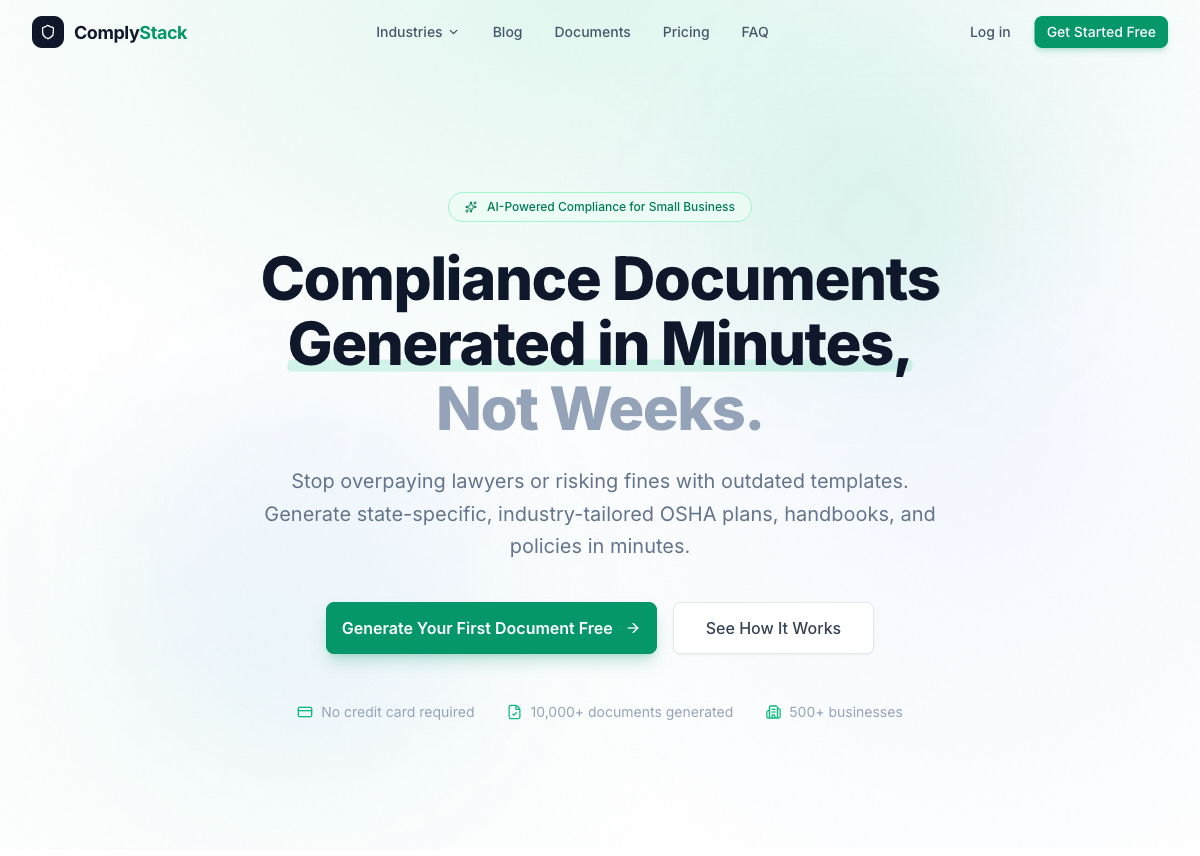
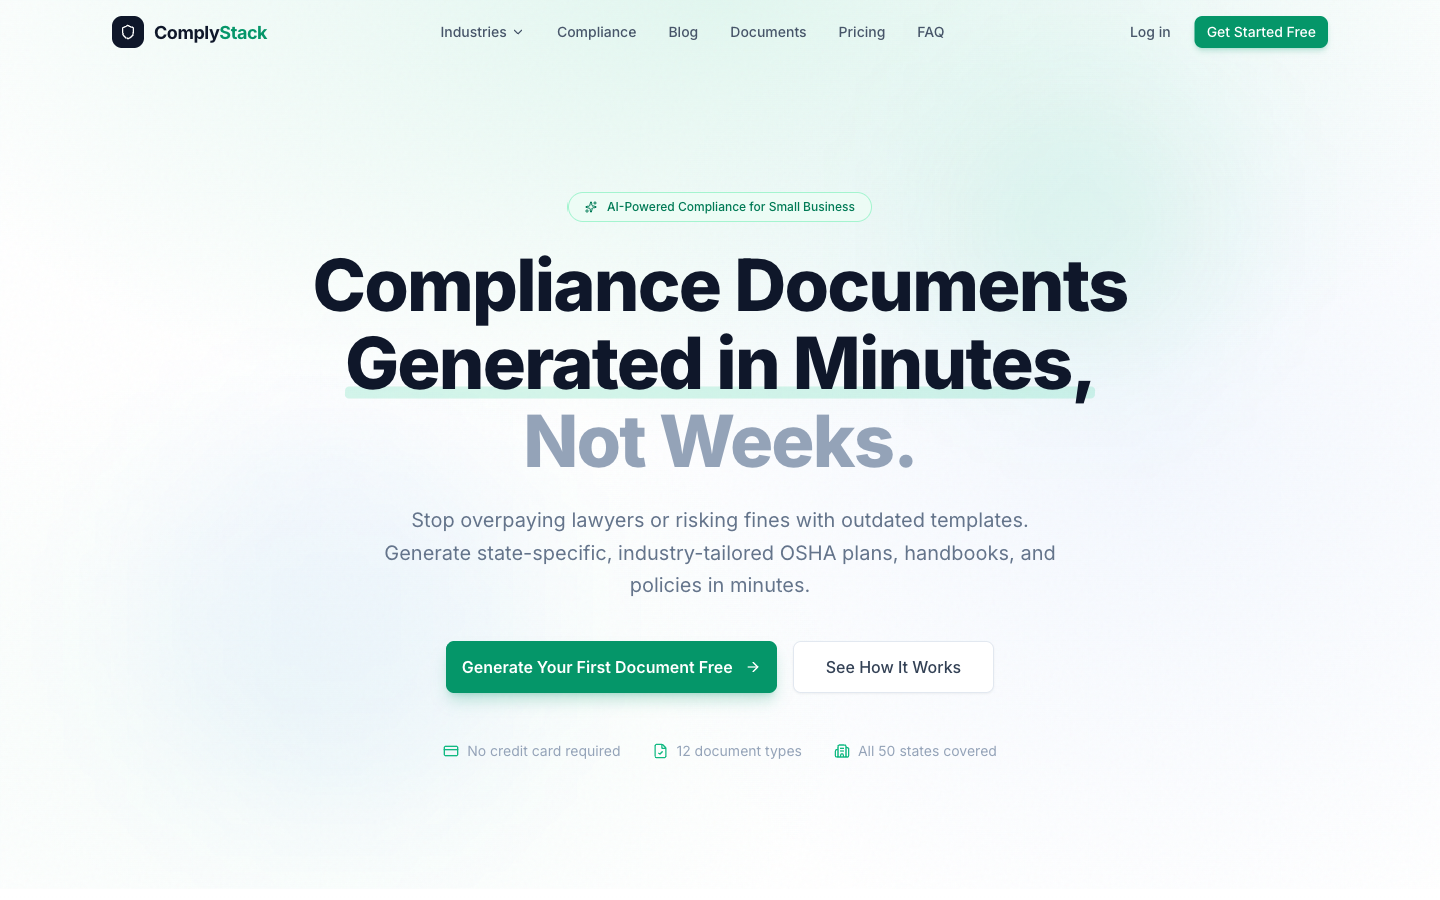
Add PermitMate, update Spar features, refresh hero images
- Add PermitMate (permitmate.ai) as 7th project card with AI permit discovery
- Update Spar copy with AI Secretary and AI Board of Directors features
- Update ComplyStack metrics to 12 document types
- Refresh desktop hero screenshots for ComplyStack and Spar
- Add PermitMate to JSON-LD structured data
- Update stats to 7 Live Products

diff --git a/index.html b/index.html
@@ -117,7 +117,7 @@
                     "url": "https://complystack.ai",
                     "applicationCategory": "BusinessApplication",
                     "operatingSystem": "Web",
-                    "description": "AI-powered compliance document generator for small businesses — OSHA plans, handbooks, HIPAA policies, and more",
+                    "description": "AI-powered compliance document generator for small businesses — 12 document types across OSHA plans, handbooks, HIPAA policies, and more",
                     "offers": {
                         "@type": "Offer",
                         "price": "0",
@@ -133,10 +133,26 @@
                     "url": "https://sparai.co",
                     "applicationCategory": "BusinessApplication",
                     "operatingSystem": "Web",
-                    "description": "AI co-founder that knows your business deeply, challenges your assumptions, and never just agrees with you",
+                    "description": "AI co-founder with persistent memory, AI Secretary, and AI Board of Directors — challenges your assumptions and never just agrees with you",
                     "offers": {
                         "@type": "Offer",
                         "price": "99",
+                        "priceCurrency": "USD"
+                    }
+                }
+            },
+            {
+                "@type": "Offer",
+                "itemOffered": {
+                    "@type": "SoftwareApplication",
+                    "name": "PermitMate",
+                    "url": "https://permitmate.ai",
+                    "applicationCategory": "BusinessApplication",
+                    "operatingSystem": "Web",
+                    "description": "AI-powered permit and license discovery for small businesses — identifies every permit you need with step-by-step action plans",
+                    "offers": {
+                        "@type": "Offer",
+                        "price": "49",
                         "priceCurrency": "USD"
                     }
                 }
@@ -145,7 +161,7 @@
     }
     </script>
 
-    <link rel="stylesheet" href="style.css?v=3">
+    <link rel="stylesheet" href="style.css?v=4">
     <link rel="preconnect" href="https://fonts.googleapis.com">
     <link rel="preconnect" href="https://fonts.gstatic.com" crossorigin>
     <link href="https://fonts.googleapis.com/css2?family=Inter:wght@300;400;500;600;700;800&display=swap" rel="stylesheet">
@@ -201,7 +217,7 @@
             </div>
             <div class="hero-stats" data-animate>
                 <div class="stat">
-                    <span class="stat-number">6</span>
+                    <span class="stat-number">7</span>
                     <span class="stat-label">Live Products</span>
                 </div>
                 <div class="stat-divider"></div>
@@ -452,7 +468,7 @@
                         <p class="project-tagline">AI-powered compliance documents for small businesses — generated in minutes, not weeks.</p>
                         <p class="project-description">Small businesses need OSHA plans, employee handbooks, HIPAA policies, and food safety plans — but lawyers cost thousands and templates miss state-specific requirements. ComplyStack generates professional, citation-backed compliance documents tailored to your industry, state, and business size.</p>
                         <div class="project-metrics">
-                            <span>8 Document Types</span>
+                            <span>12 Document Types</span>
                             <span>50 States</span>
                             <span>4 Industries</span>
                         </div>
@@ -479,20 +495,49 @@
                         <div class="project-badge">Live Product</div>
                         <h3>Spar</h3>
                         <p class="project-tagline">Your AI co-founder that actually pushes back — because yes-men don't build great companies.</p>
-                        <p class="project-description">Spar knows your business deeply and remembers everything — revenue, team, fears, and goals across every session. It challenges weak reasoning, detects contradictions against your stated priorities, and follows up on commitments. Five co-founder tones from Tough Love to Visionary. Upload docs, search your history, and never explain your business twice.</p>
+                        <p class="project-description">Spar knows your business deeply and remembers everything across every session. It challenges weak reasoning, detects contradictions against your stated priorities, and follows up on commitments. Add the <em>AI Secretary</em> to research competitors, draft emails, prep meetings, and plan travel. Bring in the <em>AI Board of Directors</em> — five specialized advisors who debate your biggest decisions and vote.</p>
                         <div class="project-metrics">
-                            <span>500+ Facts Per User</span>
-                            <span>3-Tier Memory</span>
                             <span>5 Co-Founder Tones</span>
+                            <span>AI Secretary</span>
+                            <span>AI Board of Directors</span>
                         </div>
                         <div class="project-features">
                             <span>Persistent Memory</span>
                             <span>Contradiction Detection</span>
-                            <span>Goal Tracking</span>
-                            <span>Document Analysis</span>
-                            <span>Proactive Check-ins</span>
+                            <span>Email Drafts</span>
+                            <span>Live Research</span>
+                            <span>Meeting Prep</span>
                         </div>
                         <a href="https://sparai.co" target="_blank" rel="noopener noreferrer" class="project-link">
+                            Try It Live
+                            <svg viewBox="0 0 20 20" fill="currentColor" width="16" height="16">
+                                <path d="M5.22 14.78a.75.75 0 001.06 0l7.22-7.22v5.69a.75.75 0 001.5 0v-7.5a.75.75 0 00-.75-.75h-7.5a.75.75 0 000 1.5h5.69l-7.22 7.22a.75.75 0 000 1.06z"/>
+                            </svg>
+                        </a>
+                    </div>
+                </div>
+                <div class="project-card project-card-horizontal" data-animate>
+                    <div class="project-image">
+                        <img src="assets/permitmate-preview.png" alt="PermitMate - AI-powered permit and license discovery for small businesses" loading="lazy">
+                    </div>
+                    <div class="project-info">
+                        <div class="project-badge">Live Product</div>
+                        <h3>PermitMate</h3>
+                        <p class="project-tagline">Stop Googling which permits your business needs — AI figures it out in minutes, not months.</p>
+                        <p class="project-description">Take a 2-minute quiz about your business type, city, and state. PermitMate instantly identifies every permit and license you need, then gives you a step-by-step action plan with exact fees, timelines, required documents, and application links. AI pre-fills forms, flags common rejection reasons, and tracks renewals with automated reminders.</p>
+                        <div class="project-metrics">
+                            <span>All 50 States</span>
+                            <span>2-Min Discovery</span>
+                            <span>Renewal Tracking</span>
+                        </div>
+                        <div class="project-features">
+                            <span>Permit Discovery</span>
+                            <span>Form Pre-Fill</span>
+                            <span>Rejection Analysis</span>
+                            <span>Renewal Alerts</span>
+                            <span>Action Plans</span>
+                        </div>
+                        <a href="https://permitmate.ai" target="_blank" rel="noopener noreferrer" class="project-link">
                             Try It Live
                             <svg viewBox="0 0 20 20" fill="currentColor" width="16" height="16">
                                 <path d="M5.22 14.78a.75.75 0 001.06 0l7.22-7.22v5.69a.75.75 0 001.5 0v-7.5a.75.75 0 00-.75-.75h-7.5a.75.75 0 000 1.5h5.69l-7.22 7.22a.75.75 0 000 1.06z"/>
@@ -587,6 +632,6 @@
         </div>
     </footer>
 
-    <script src="script.js?v=3"></script>
+    <script src="script.js?v=4"></script>
 </body>
 </html>
